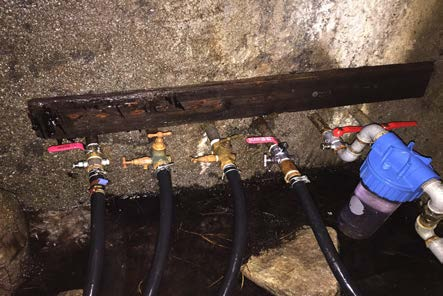
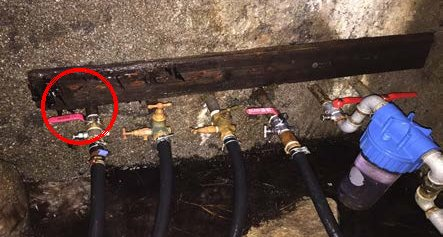
Replace PDF iframe viewer with scrollable image pages, crop photos, annotate reservoir
- Convert PDF to 10 page images for mobile-friendly scrollable viewer
- Crop marche-ouverte.jpg and reservoir-interieur.jpg to remove excess
- Add red circle annotation on reservoir leftmost valve
- Remove unused marche-vis.jpg
- Bump SW version to 8.0

Claude-Session: https://claude.ai/code/session_015MK9EoPBRGma6Gf3kawg89

diff --git a/index.html b/index.html
@@ -2874,14 +2874,24 @@ window.addEventListener('resize', function(){
   if (img.complete) trace(); else img.onload = trace;
 })();
 </script>
-<div id="pdf-viewer" style="display:none;position:fixed;inset:0;z-index:9999;background:#000">
-  <iframe src="mode-emploi.pdf" style="width:100%;height:100%;border:none"></iframe>
-  <button onclick="document.getElementById('pdf-viewer').classList.remove('open')" style="position:fixed;top:env(safe-area-inset-top,12px);right:12px;margin-top:12px;width:40px;height:40px;border-radius:50%;border:none;background:rgba(0,0,0,.6);color:#fff;font-size:20px;cursor:pointer;display:flex;align-items:center;justify-content:center;backdrop-filter:blur(8px);-webkit-backdrop-filter:blur(8px)">✕</button>
+<div id="pdf-viewer" style="display:none;position:fixed;inset:0;z-index:9999;background:#111;overflow-y:auto;-webkit-overflow-scrolling:touch">
+  <div style="padding:8px 4px 60px;display:flex;flex-direction:column;align-items:center;gap:6px">
+    <img src="pdf-pages/page-01.jpg" loading="lazy" style="width:100%;max-width:800px;display:block">
+    <img src="pdf-pages/page-02.jpg" loading="lazy" style="width:100%;max-width:800px;display:block">
+    <img src="pdf-pages/page-03.jpg" loading="lazy" style="width:100%;max-width:800px;display:block">
+    <img src="pdf-pages/page-04.jpg" loading="lazy" style="width:100%;max-width:800px;display:block">
+    <img src="pdf-pages/page-05.jpg" loading="lazy" style="width:100%;max-width:800px;display:block">
+    <img src="pdf-pages/page-06.jpg" loading="lazy" style="width:100%;max-width:800px;display:block">
+    <img src="pdf-pages/page-07.jpg" loading="lazy" style="width:100%;max-width:800px;display:block">
+    <img src="pdf-pages/page-08.jpg" loading="lazy" style="width:100%;max-width:800px;display:block">
+    <img src="pdf-pages/page-09.jpg" loading="lazy" style="width:100%;max-width:800px;display:block">
+    <img src="pdf-pages/page-10.jpg" loading="lazy" style="width:100%;max-width:800px;display:block">
+  </div>
+  <button onclick="document.getElementById('pdf-viewer').classList.remove('open');document.getElementById('pdf-viewer').scrollTop=0" style="position:fixed;top:env(safe-area-inset-top,12px);right:12px;margin-top:12px;width:40px;height:40px;border-radius:50%;border:none;background:rgba(0,0,0,.6);color:#fff;font-size:20px;cursor:pointer;display:flex;align-items:center;justify-content:center;backdrop-filter:blur(8px);-webkit-backdrop-filter:blur(8px);z-index:10000">✕</button>
 </div>
 <style>
 #pdf-viewer { display: none !important; }
-#pdf-viewer.open { display: block !important; }
-#pdf-viewer.open iframe { display: block; }
+#pdf-viewer.open { display: flex !important; flex-direction: column; }
 </style>
 </body>
 </html>

diff --git a/sw.js b/sw.js
@@ -1,4 +1,4 @@
-const SW_VERSION = '7.5';
+const SW_VERSION = '8.0';
 
 self.addEventListener('install', () => self.skipWaiting());
 